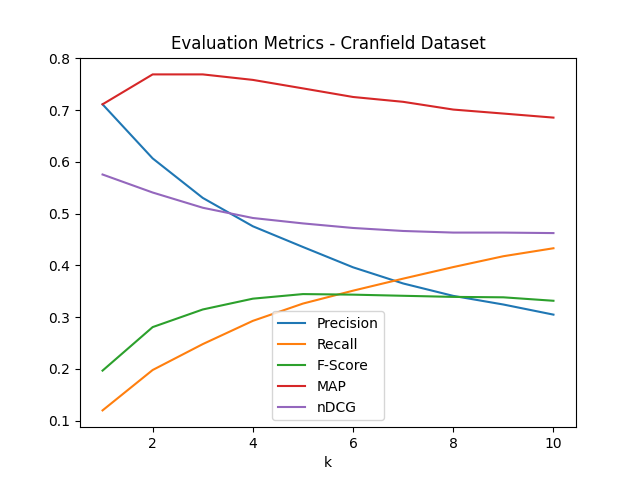
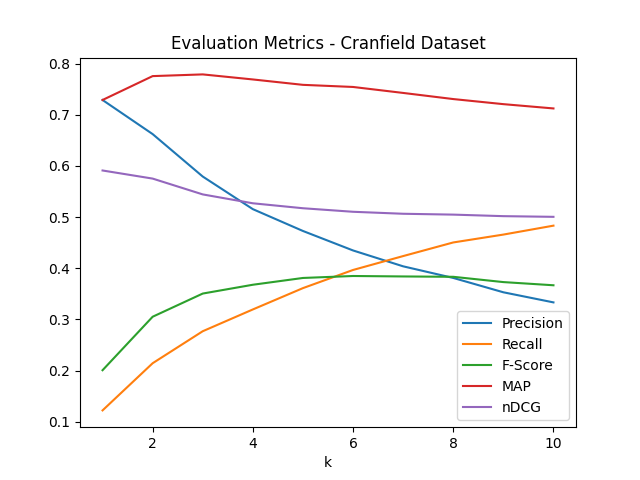
few changes

diff --git a/project/spare.py b/project/spare.py
@@ -1,0 +1,36 @@
+# from nltk.corpus import wordnet
+# from collections import Counter
+
+# def expand_query(query, k):
+#     # Tokenize the query into a list of words
+#     words = query.split()
+#     expanded_query = []
+    
+#     # Iterate over each word in the query
+#     for word in words:
+#         # Get the k most frequently used synsets for the word
+#         synsets = wordnet.synsets(word)
+#         synset_counts = Counter([synset for s in synsets for synset in s.lemmas()])
+#         most_frequent_synsets = [synset for synset, count in synset_counts.most_common(k)]
+        
+#         # Combine the original word with the most frequent synonyms
+#         expanded_query.append(word)
+
+#         if not most_frequent_synsets:
+#             continue
+#         expanded_query.append(word)
+#         expanded_word = " ".join([most_frequent_synsets[0].name()] + [synset.name().split('.')[0] for synset in most_frequent_synsets[1:]])
+#         expanded_query.append(expanded_word)
+    
+#     # Combine the expanded words into a single query
+#     return " ".join(expanded_query)
+
+
+# # Example usage
+# query = "what similarity laws must be obeyed when constructing aeroelastic models"
+# k = 2
+# expanded_query = expand_query(query, k)
+# print(expanded_query)
+
+
+

diff --git a/project/informationRetrieval.py b/project/informationRetrieval.py
@@ -9,7 +9,7 @@ from sklearn.metrics.pairwise import cosine_similarity
 from sklearn.pipeline import Pipeline
 from itertools import chain
 from sklearn.decomposition import TruncatedSVD
-from sklearn.decomposition import LatentDirichletAllocation
+
 
 
 class InformationRetrieval():
@@ -74,12 +74,10 @@ class InformationRetrieval():
 		docs = [' '.join(list(chain.from_iterable(x))) for x in docs]
 
 		modelsToFit = [('count', CountVectorizer(strip_accents='unicode', max_df=0.5, ngram_range = ngrams)), 
-                   	   ('tfid', TfidfTransformer(norm='l2',use_idf=True, smooth_idf=True,sublinear_tf=False))]
+                   	   ('tfid', TfidfTransformer(norm='l2',use_idf=True, smooth_idf=True,sublinear_tf=True))]
 
 		if argDimRed == 'lsa':
-			modelsToFit.append(('svd', TruncatedSVD(n_components=1300)))
-		elif argDimRed == 'lda':
-			modelsToFit.append(('lda', LatentDirichletAllocation(n_components=900)))
+			modelsToFit.append(('svd', TruncatedSVD(n_components=300)))
 		elif argDimRed == 'no':
 			pass
 		else:

diff --git a/project/main.py b/project/main.py
@@ -275,7 +275,7 @@ if __name__ == "__main__":
 	parser.add_argument('-qexpander', default = "yes", 
 						help = "Do query expansion [yes|no]")
 	parser.add_argument('-dimred', default = "lsa", 
-						help = "Do dimension reduction [lsa|lda|no]")
+						help = "Do dimension reduction [lsa|no]")
 	parser.add_argument('-ngrams', default = "u", 
 						help = "Use ngrams [b|t|ub|bt|ubt]")
 	
